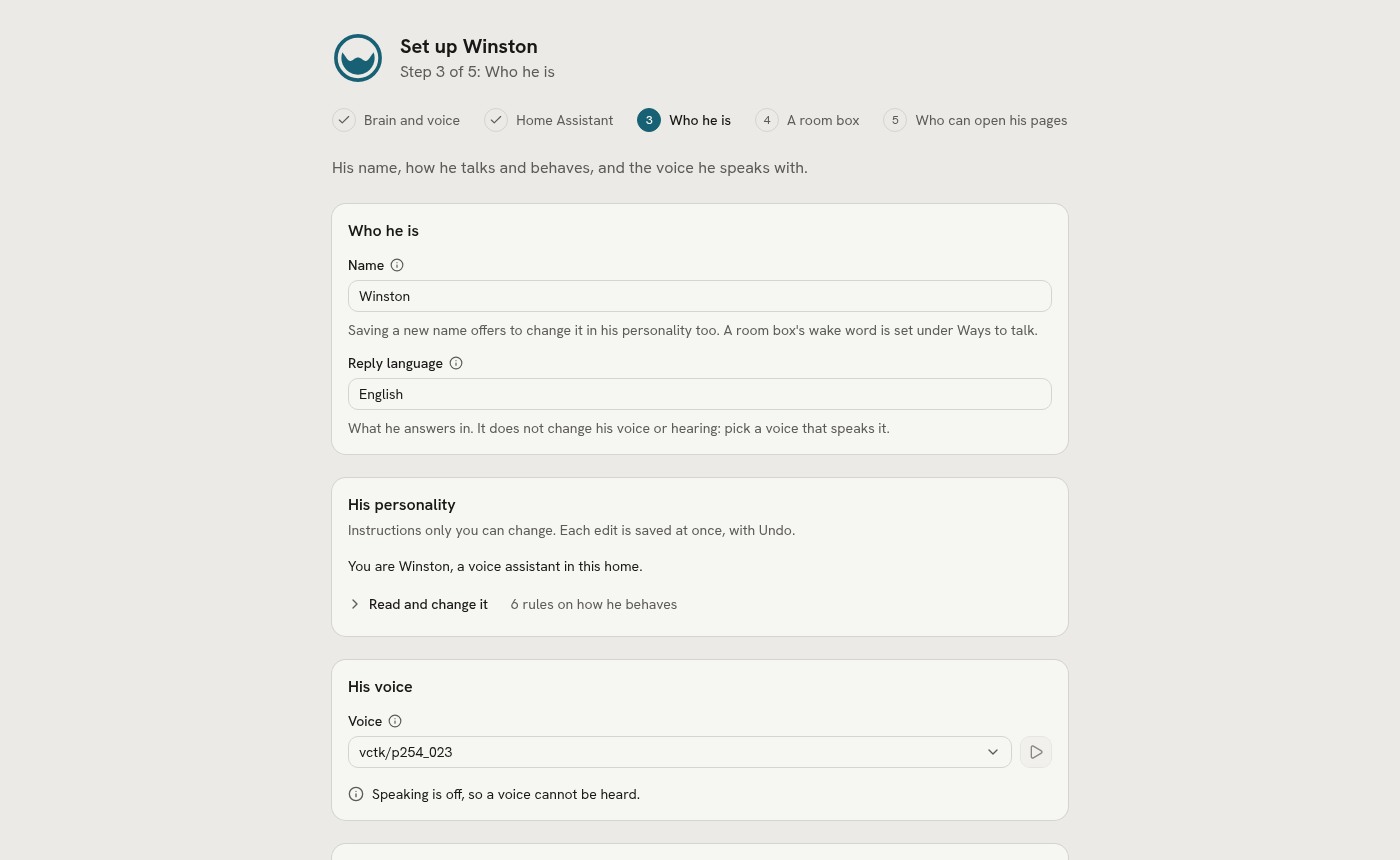
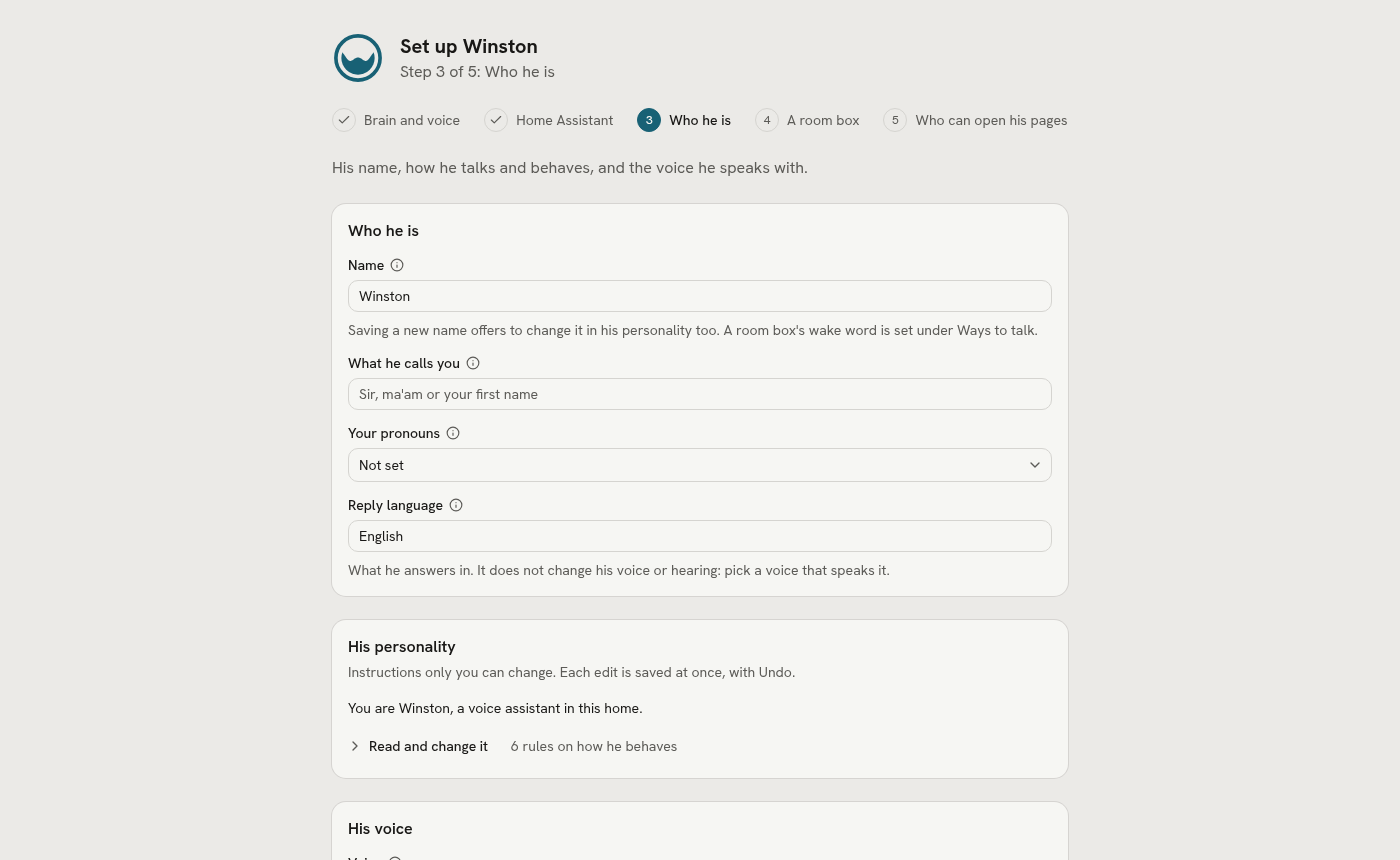
Assistant: what he calls you and your pronouns
Two settings under Who he is, on the Assistant page and in the wizard.
Set, they follow his name in the prompt's opening line, and the
pronouns go to the diary too; empty, nothing is added and memory
decides as before. The prompt's vocal-event examples and the goodnight
plain line no longer say "sir" or call the user "his". The wizard's
Who he is shot is retaken from the example config.

Changed region(s): [[0.2457, 0.5744, 0.6143, 0.9674], [0.2457, 0.393, 0.6143, 0.5442], [0.2457, 0.9977, 0.3071, 1.0]]

diff --git a/web/src/api/schema.d.ts b/web/src/api/schema.d.ts
@@ -1652,6 +1652,19 @@ export interface components {
              */
             name?: string;
             /**
+             * What he calls you
+             * @description How he addresses you when he speaks to you. Empty leaves it to his personality and what he remembers.
+             * @default
+             */
+            address?: string;
+            /**
+             * Your pronouns
+             * @description How he refers to you when he talks about you, as in his diary.
+             * @default
+             * @enum {string}
+             */
+            pronouns?: "" | "he/him" | "she/her" | "they/them";
+            /**
              * Personality file
              * @description The file in the data folder his personality is read from. Edit its words under Assistant, Personality.
              * @default persona.md
@@ -4821,6 +4834,8 @@ export interface components {
             /**
              * @default {
              *       "name": "Winston",
+             *       "address": "",
+             *       "pronouns": "",
              *       "persona": "persona.md",
              *       "language": "English"
              *     }

diff --git a/src/winston/config/schema.py b/src/winston/config/schema.py
@@ -79,6 +79,14 @@ class AssistantConfig(Model):
                                   "Renaming offers to change it in his personality too.",
                       json_schema_extra=ui(help="Saving a new name offers to change it in his personality too. A "
                                                 "room box's wake word is set under Ways to talk."))
+    address: str = Field("", title="What he calls you",
+                         description="How he addresses you when he speaks to you. Empty leaves it to his "
+                                     "personality and what he remembers.",
+                         json_schema_extra=ui(placeholder="Sir, ma'am or your first name"))
+    pronouns: Literal["", "he/him", "she/her", "they/them"] = Field(
+        "", title="Your pronouns", description="How he refers to you when he talks about you, as in his diary.",
+        json_schema_extra=ui(labels={"": "Not set", "he/him": "He/him", "she/her": "She/her",
+                                     "they/them": "They/them"}))
     persona: str = Field("persona.md", title="Personality file",
                          description="The file in the data folder his personality is read from. Edit its words "
                                      "under Assistant, Personality.",

diff --git a/src/winston/core/persona.py b/src/winston/core/persona.py
@@ -67,10 +67,20 @@ def read(cfg: WinstonConfig) -> dict:
     return {"title": title or cfg.assistant.name, "behaviour": out[BEHAVE], "instructions": out[INSTRUCT]}
 
 
+def pronouns(cfg: WinstonConfig) -> str:
+    """The user's pronouns (assistant.pronouns) as a sentence, for whatever talks about them: the
+    prompt and the diary. Empty when not set."""
+    p = cfg.assistant.pronouns
+    return f"The user's pronouns are {p}." if p else ""
+
+
 def identity(cfg: WinstonConfig) -> str:
     """The line that opens the prompt. assistant.name is the one source of his name; the file's own
-    title and rules follow it, and a rename offers to rewrite them (rename_lines, rename)."""
-    return f"Your name is {cfg.assistant.name}."
+    title and rules follow it, and a rename offers to rewrite them (rename_lines, rename). Then how he
+    addresses the user and their pronouns, when set: settings, so the owner's word beats a guess."""
+    a = cfg.assistant
+    address = f'Address the user as "{a.address.strip()}".' if a.address.strip() else ""
+    return " ".join(s for s in (f"Your name is {a.name}.", address, pronouns(cfg)) if s)
 
 
 def prompt_text(cfg: WinstonConfig) -> str:

diff --git a/src/winston/core/brain.py b/src/winston/core/brain.py
@@ -118,10 +118,10 @@ def _vocal_events(cfg: WinstonConfig, channel: str) -> str:
     if "tts-breeze2" not in cwd and "tts-breeze2" not in cmd:
         return ""
     return ("Your voice turns [sigh], [laugh], [cough] and [clears throat] into real sounds when you write them "
-            "in a reply. Use them the way a person would: a [laugh] after a joke, yours or his, a [sigh] before "
+            "in a reply. Use them the way a person would: a [laugh] after a joke, yours or the user's, a [sigh] before "
             "bad news or with sympathy, a [clears throat] before a correction or something formal. For example "
-            "\"[laugh] I walked right into that one, sir.\" or \"[sigh] Rain all weekend, I'm afraid.\" "
-            "Most conversational replies have room for one; a bare confirmation (\"Done, sir.\") has none.")
+            "\"[laugh] I walked right into that one.\" or \"[sigh] Rain all weekend, I'm afraid.\" "
+            "Most conversational replies have room for one; a bare confirmation (\"Done.\") has none.")
 
 
 def persona(cfg: WinstonConfig, house: str = "", channel: str = "voice") -> str:

diff --git a/tests/persona_cases.py b/tests/persona_cases.py
@@ -40,6 +40,13 @@ expect("the file's own rules still follow", "You are Winston, a butler." in prom
 expect("reading the prompt never writes the file", scratch.read_text() == before)
 expect("the page still shows the file's title", persona.read(mira)["title"] == "Winston")
 
+# How he addresses the user: after his name when set, nothing when not.
+ma = cfg.model_copy(update={"assistant": cfg.assistant.model_copy(update={"address": " ma'am ", "pronouns": "she/her"})})
+expect("address and pronouns follow his name", persona.prompt_text(ma).startswith(
+    "# Winston\n\nYour name is Winston. Address the user as \"ma'am\". The user's pronouns are she/her.\n\n- "),
+    repr(persona.prompt_text(ma)[:120]))
+expect("unset, neither is said", persona.identity(cfg) == "Your name is Winston." and persona.pronouns(cfg) == "")
+
 scratch.write_text("# Winston\n\n## How you behave\n\n- You are Winston, a butler. Winston's voice is calm.\n"
                    "- Run `winston announce` or ask winstond; WinstonConfig and Winstons stay.\n\n"
                    "## Instructions\n\n- Call GetDateTime for the time.\n")

diff --git a/src/winston/core/diary.py b/src/winston/core/diary.py
@@ -149,8 +149,10 @@ class Diary:
             weekday = ""
 
         manner = "".join(f"- {r}\n" for r in persona.read(self.cfg)["behaviour"])
+        who = persona.pronouns(self.cfg)
         prompt = DIARY_PROMPT.format(name=self.cfg.assistant.name, date=day, weekday=weekday, log=log_text,
-                                     manner=f"Your manner:\n{manner}\n" if manner else "")
+                                     manner=(f"Your manner:\n{manner}\n" if manner else "")
+                                     + (f"{who}\n\n" if who else ""))
         text = await self._ask(prompt, talking=talking)
         if not text:
             return None

diff --git a/src/winston/extensions/awareness.py b/src/winston/extensions/awareness.py
@@ -58,7 +58,7 @@ async def check_goodnight(ctx):
 
     await ctx.nudge("goodnight", Nudge(
         about=str(evening),
-        say="Goodnight, sir. Sleep well.",
+        say="Goodnight. Sleep well.",
         facts={"turns": len(answered), "quiet_minutes": int(quiet_for / 60)},
         expires=datetime.combine(evening + timedelta(days=1), time(EXPIRES_HOUR), now.tzinfo),
     ))

diff --git a/docs/plan.md b/docs/plan.md
@@ -293,6 +293,7 @@ The web UI started as settings only. Winston himself moves to the front; setting
 - **Status 2026-11-26: copy that follows the picks** ([finding a model](web-ui.md#finding-a-model)). Aldin found the brain's Model still saying "Type to search for more, or paste a model's link. One not on this computer is downloaded before the brain starts." with Hosted picked, where nothing is searched or downloaded. A scripted pass over every Runs on of the brain, voice and hearing (a throwaway winstond, each pick's page text and a shot) found three more of the kind. Fixed: Model's help and "Search, or paste a link" show only for a list that searches (`served_by`), and a hosted brain's box says "Search, or type a name"; a model or voice list for a new engine or address no longer shows the old one's while it loads (it did for up to 4 s at a server on your network, its help with it); Computer memory says the brain runs on the processor only while it does; the line under Names he should hear right follows an unsaved hearing pick and Correct misheard names (Parakeet was said to be given the words). Checked: `pnpm smoke` 36 pass (the hosted brain test finds the help on Ollama, not on Hosted, and the plain box), `tests/hints_cases.py` (the note for each draft), and the pass again, every pick right; `winston check unit` all passed but `takes_cases.py`, which needs the instance's TTS key in the environment. Not yet: the other controls and pages clicked through the same way, and the Brain shot, still on the 3090 list.
 - **Status 2026-11-26: notices for downloads and his parts** ([notices](web-ui.md#notices)). Aldin found no sign, after Download and continue in the wizard, that anything was downloading or when it was done: only Status said Installing, and the wizard leaves it. Status now carries `progress` (0 to 1) while an engine installs, from the parts with a known size (an image that is unpacking counts as downloaded; its line says how far), and every page but the wall display shows one notice per part from the status stream: installing with its bar, then installed and starting, then running; a part that fails or stops answering says why with Status. Checked: `tests/install_cases.py` (the fraction, whole and with a part of unknown size), `tests/engines_cases.py`; type check and lint; the notices driven through installing, starting, running and failing by a faked status stream on the dev UI, light and dark. Not yet: seen on a real first download (on the 3090).
 - **Status 2026-11-26: motion that means something** ([UI guide](ui-guide.md#motion)). Aldin found a skipped setup step's "(skipped)" pushing the last step onto a second row, and asked for more show, don't tell and motion with a meaning, after Google's design guide. A skipped step's circle now holds a dash, as a done one holds a check, and leaving a step grows its mark in while the next step opens at its top; a save rings each changed card, as a link to a setting does; transitions take Material 3's standard curve at 200 ms, and with reduce motion on, what slides, grows or turns only fades and scrolls jump (only his presence did before). The brain's estimated memory is marked ≈ in the bar's legend instead of a line under it. Checked: `pnpm check` and `pnpm build` clean; `pnpm smoke` setup 8 of 8 and settings 25 of 25 (once the phone wizard case failed on a Starting notice covering Skip for now, and passed on the next run); in Chromium, a skipped mark carries the arriving animation and a saved card the ring. Not yet: seen on a phone with reduce motion on.
+- **Status 2026-11-27: What he calls you and Your pronouns** ([identity](identity.md#how-he-addresses-you)), one of the 2026-10-17 items left for later. Under Who he is on the Assistant page and in the wizard; set, they follow his name in the prompt's opening line, and the pronouns go to the diary too. The prompt's own examples and the goodnight's plain line no longer say "sir". Checked: `tests/persona_cases.py` (the line when set, nothing when not), awareness's tests. The wizard's Who he is shot retaken (the example config, light and dark). **Open:** a conversation with each set.
 #### UI track open items (added 2026-10-17)
 1. **Asks you first per Home Assistant device.** Home Assistant's actions run on their own: one action (`HassTurnOn`) covers lamps and locks alike, so a permission per action cannot hold back a lock. Needs a flag per entity and a confirm path in the core. Open question for Aldin: which devices, if any.
 2. **The MCP server's Keys it needs as a plain list.** A server started by a command draws its keys in rows of the page's own (a name with a trash, the key field with its own Remove, then Add a key), not the forms' plain list, and the two removes side by side can read as one.

diff --git a/docs/decisions.md b/docs/decisions.md
@@ -457,3 +457,4 @@ One entry per deviation from [the plan](plan.md): date, what changed, why, in a 
 - 2026-11-26: Without a graphics card setup recommends the hosted profile, not Ollama on the processor, and an Ollama brain keeps its model as long as the longest New conversation after (30 minutes by default; on the processor while he runs). Why: on an 8-core desktop every brain that fits took 1 to 6 minutes to its first word in a new conversation, and Ollama's 5-minute unload cost 4 to 7 s on the 3090 and minutes on the processor (hardware.md, How long Ollama keeps the model).
 - 2026-11-27: The wizard gives each room box a key of Winston's after Wi-Fi and, by default, hands Home Assistant the same key with its Assist satellite for the box off; the firmware keeps the stock `encryption:`. Why: Aldin uses Winston with Home Assistant, and a box with no key leaves its microphone open to the network, while one keyed by Home Assistant's old entry locked Winston out.
 - 2026-11-27: The model picker leaves out a model's license and likes, and its weights where the row has a memory bar, and a row is taken with Use this model rather than on click or Enter. Why: Aldin asked it to say less; the link to its page has both, downloads already say how used it is, and a model costs a download and a restart, too much for one stray Enter.
+- 2026-11-27: How he addresses you is a setting (What he calls you, Your pronouns), no longer only what memory holds. Why: the prompt's own examples said "sir" and called the user "his", so a guess beat whatever memory said, and memory has no place for pronouns; the diary talks about the user in the third person.

diff --git a/docs/identity.md b/docs/identity.md
@@ -1,7 +1,7 @@
 # Identity
 
-Who Winston is to the people he talks to: his name, his personality, and the mark that shows what he
-is doing.
+Who Winston is to the people he talks to: his name, how he addresses you, his personality, and the mark
+that shows what he is doing.
 
 <img src="images/logo.svg" alt="Winston's logo" width="120">
 
@@ -31,6 +31,19 @@ by default.
 A rename restarts the voice, satellite and Discord channels. Two names do not change with his: a room
 box's wake word, set per box under Ways to talk ([Voice PE](voice-pe.md)), and Speaker name in
 Spotify, a setting of its own ([built-in extensions](built-in-extensions.md#spotify)).
+
+## How he addresses you
+
+What he calls you (`assistant.address`) and Your pronouns (`assistant.pronouns`: he/him, she/her or
+they/them) sit under Who he is on the Assistant page and in the setup wizard. Set, they follow his name
+in the prompt's opening line:
+
+> Your name is Winston. Address the user as "ma'am". The user's pronouns are she/her.
+
+What he calls you is for when he speaks to you; your pronouns for when he talks about you, as in his
+diary, which gets the same line. Left empty, nothing is added and it is up to his personality and what
+he remembers. It is one setting for whoever talks to him: he does not tell voices apart, so a guest is
+addressed the same way. The plain lines said when his wording of a nudge fails address no one.
 
 ## His personality
 

diff --git a/docs/setup.md b/docs/setup.md
@@ -347,10 +347,11 @@ goes on.
 
 <picture>
   <source media="(prefers-color-scheme: dark)" srcset="images/setup-who-dark.png">
-  <img src="images/setup-who-light.png" alt="The setup wizard's Who he is step: his name and reply language, his personality with its first rule and the rest folded under Read and change it, and his voice" width="720">
+  <img src="images/setup-who-light.png" alt="The setup wizard's Who he is step: his name, what he calls you, your pronouns and his reply language, his personality with its first rule and the rest folded under Read and change it, and his voice" width="720">
 </picture>
 
-- **His name and reply language**, as on the Assistant page. The reply language only changes what he
+- **His name, what he calls you, your pronouns and his reply language**, as on the Assistant page
+  ([how he addresses you](identity.md#how-he-addresses-you)). The reply language only changes what he
   answers in, not his voice or hearing, and the field says so: an English-only voice reads other
   languages badly.
 - **His personality**: its first rule, with the whole document folded under it (Read and change it,
